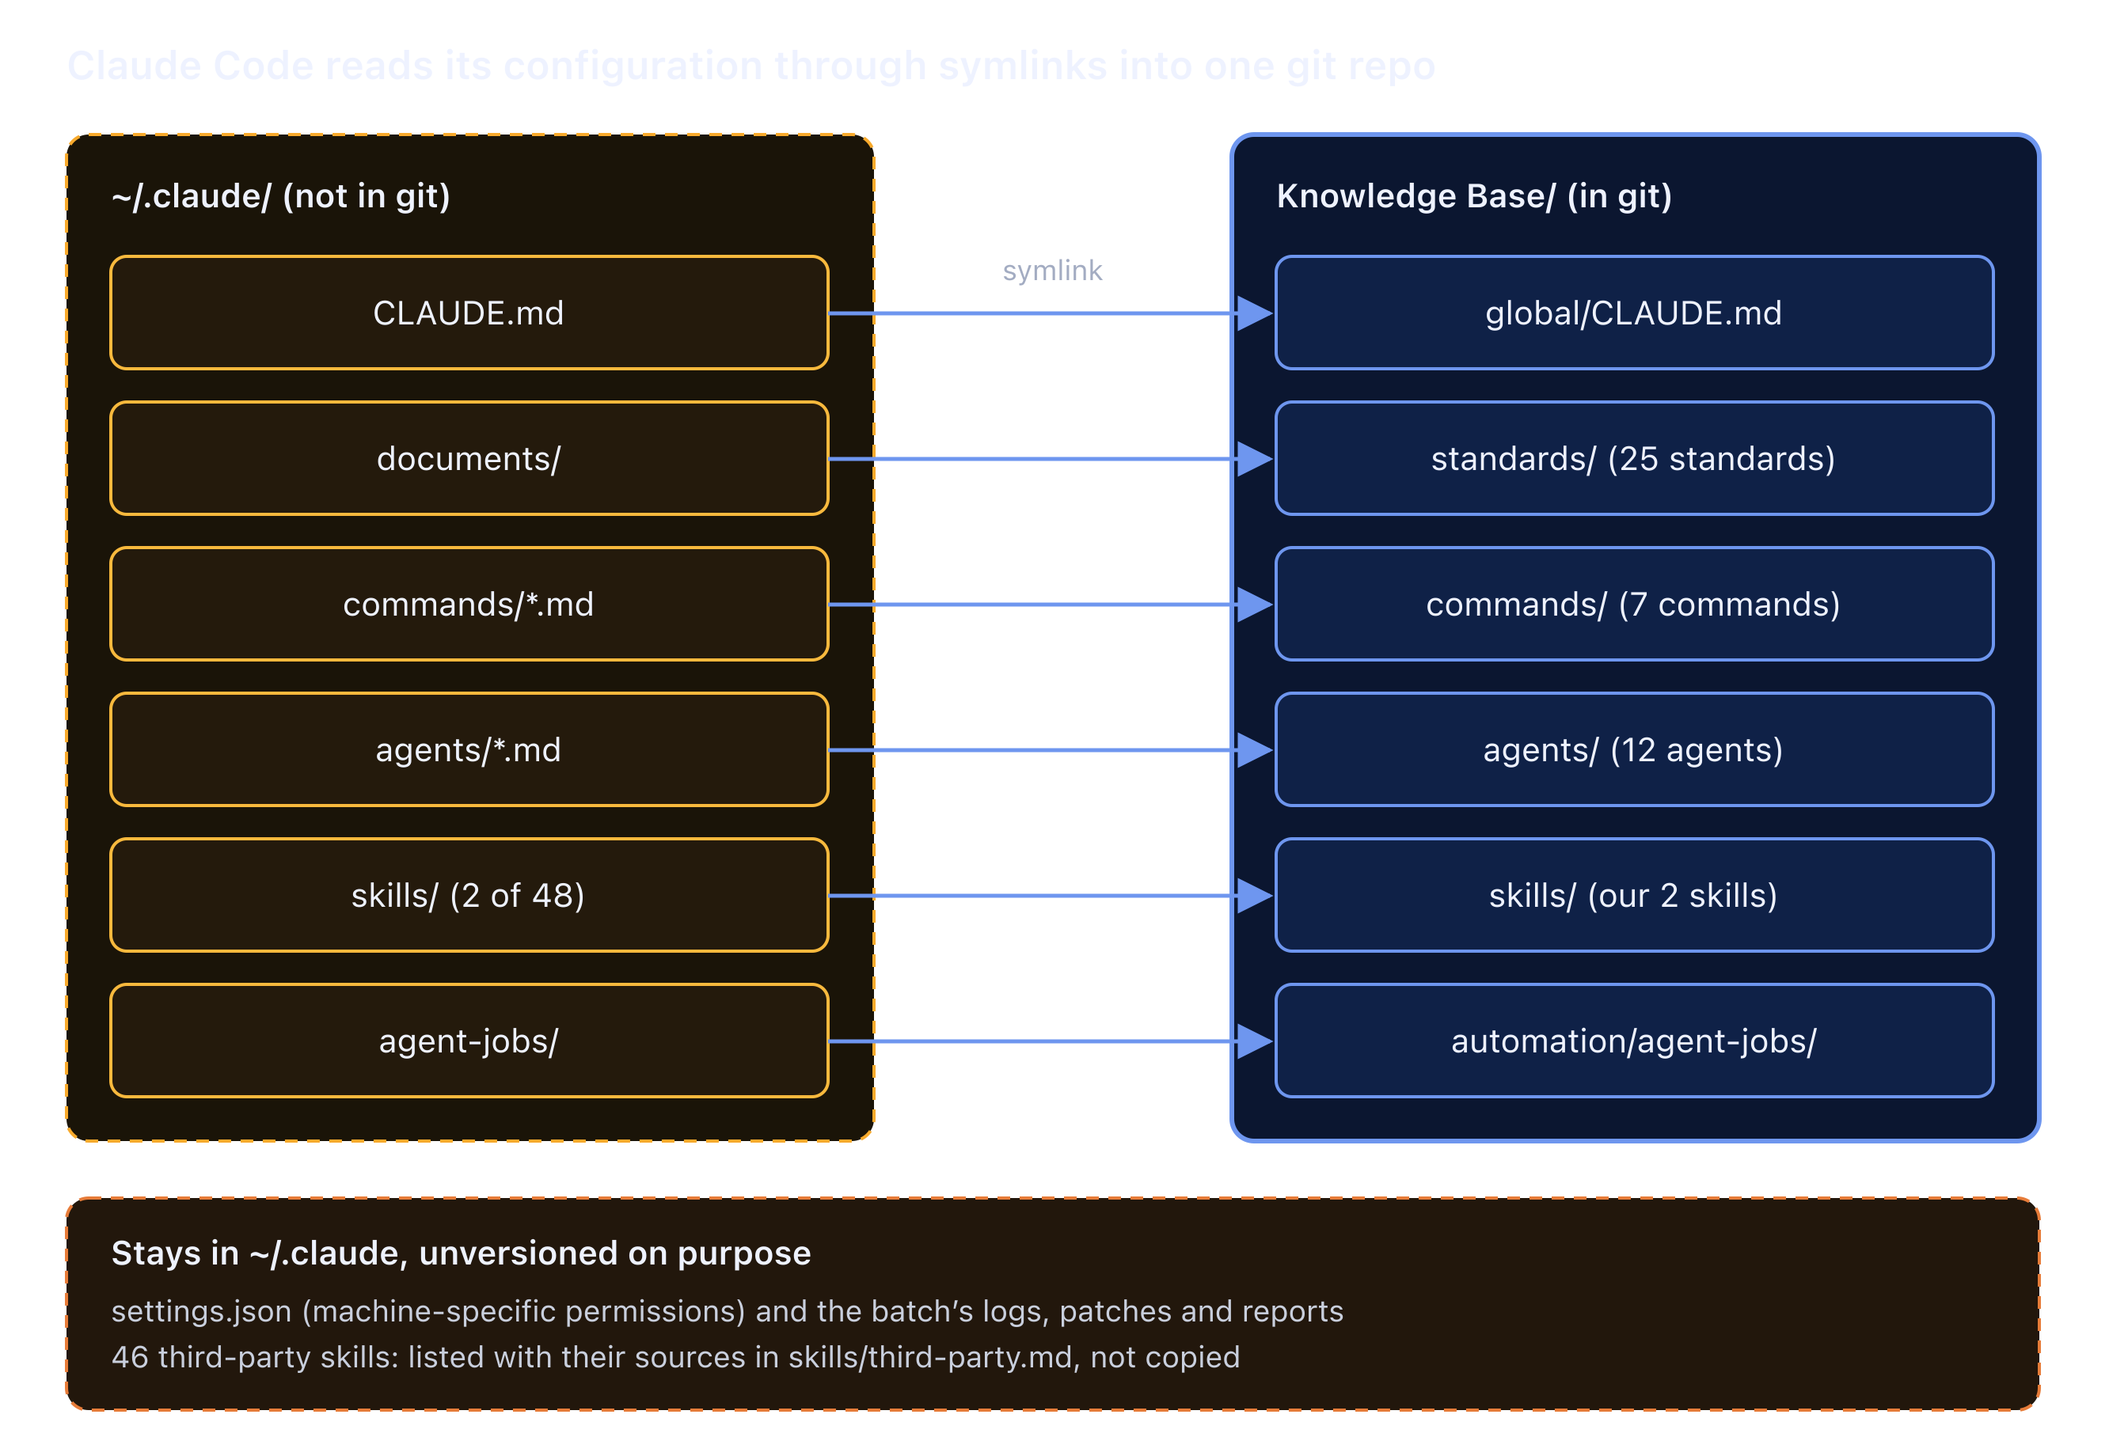
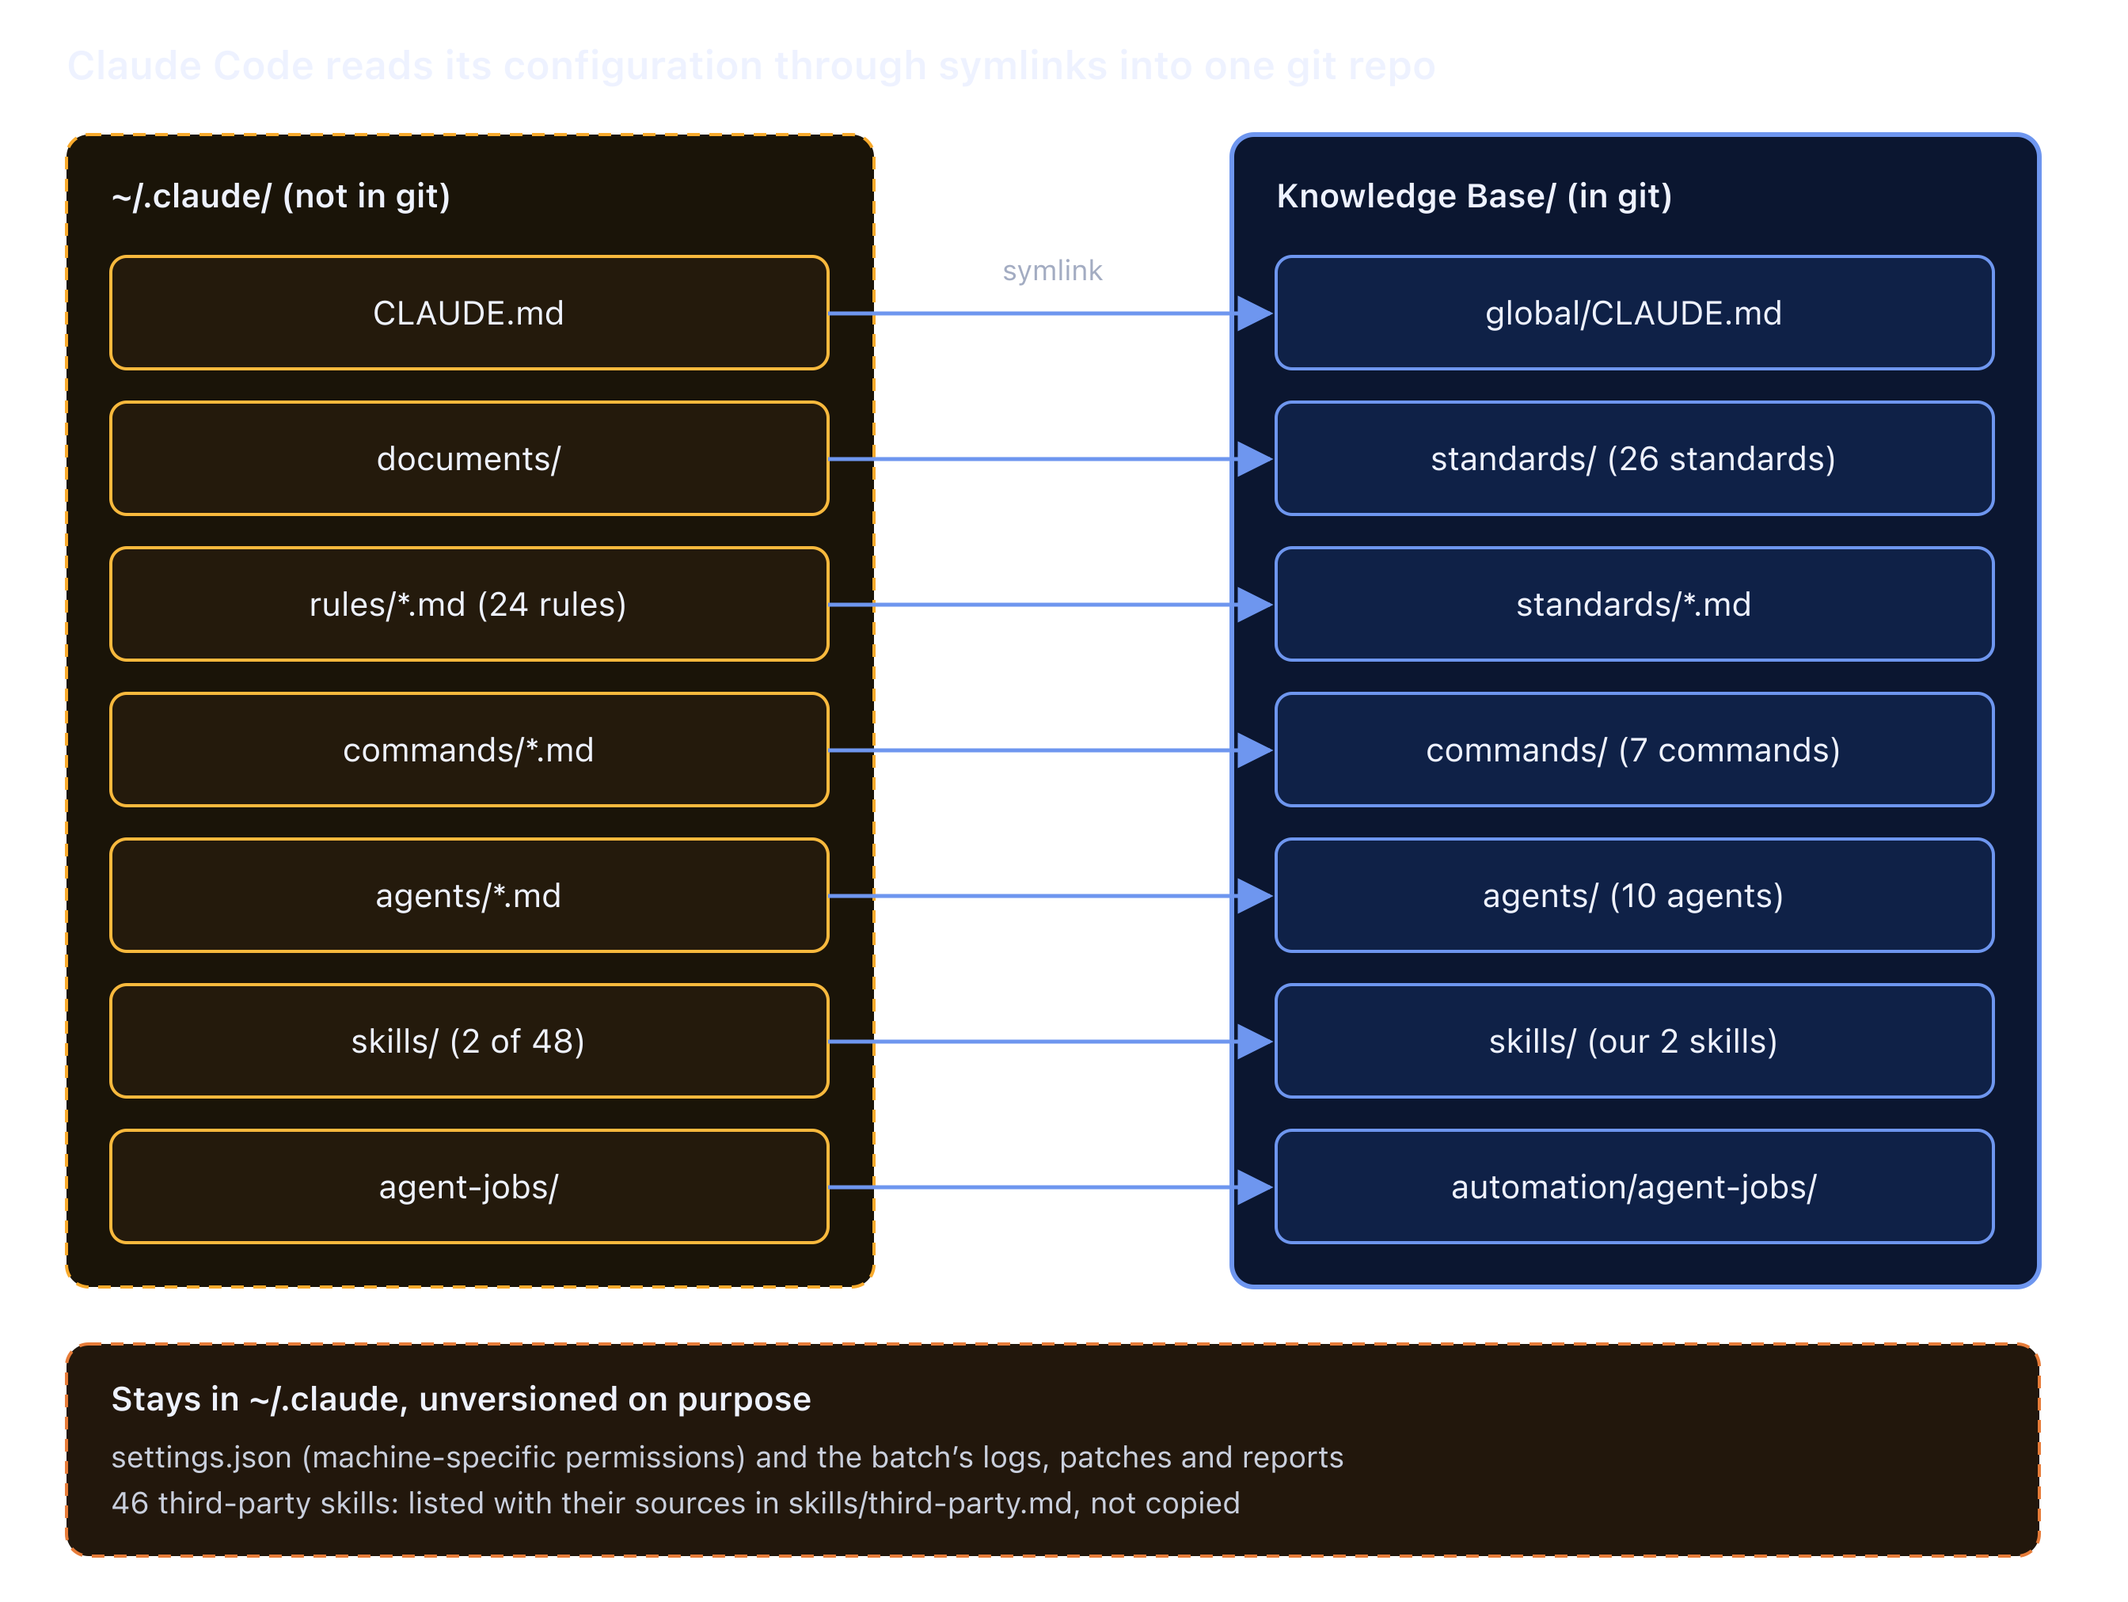
Marketing images: rebuild

Changed region(s): [[0.0312, 0.062, 0.9688, 0.9913]]

diff --git a/src/blog/how-we-set-up-our-ai-agents.md b/src/blog/how-we-set-up-our-ai-agents.md
@@ -21,11 +21,16 @@ We use Claude Code, and every session starts by loading one git repo: our Knowle
 
 Our rule of thumb is to keep each instruction file short and to point to further instructions rather than pasting them in. It’s the old Unix idea of small pieces that each do one job, applied to text.
 
-Claude Code gives you two ways to do that. A `CLAUDE.md` can import a single file with `@path` (such as `@docs/architecture.md`). And a `.claude/rules/` folder can hold rules that apply only to some files: a rule whose front matter says `paths: ["src/lib/**"]` is loaded only when the agent works there. Imports keep files manageable, but everything imported still loads at the start of every session; path-scoped rules load only when they’re needed.
+Claude Code gives you two ways to do that:
+
+1. A `CLAUDE.md` can **import** a single file with `@path` (such as `@docs/architecture.md`), and
+2. A `.claude/rules/` folder can hold **rules** that apply only to some files: a rule whose front matter says `paths: ["src/lib/**"]` is loaded only when the agent works there.
+
+Imports keep files manageable, but everything imported still loads at the start of every session; path-scoped rules load only when they’re needed. That difference is why our own standards are now rules rather than imports.
 
 Every session reads three layers of instructions, from the general to the specific. Each layer says only what the one above can’t.
 
-1. **Global instructions** (`~/.claude/CLAUDE.md`). They’re short: who the agent is (a senior Swift developer), how we work (plan first, pause after each stage, ask before committing), and where the Knowledge Base is. Then they import 25 standards with lines like `@~/.claude/documents/swiftui.md`: one each for Swift, SwiftUI, SwiftData, git, tests, linting, Readmes, websites, App Store Connect and more.
+1. **Global instructions** (`~/.claude/CLAUDE.md`). They’re short: who the agent is (a senior developer), how we work (plan first, pause after each stage, ask before committing), and where the Knowledge Base is. Alongside them sit 26 standards, one each for Swift, SwiftUI, SwiftData, git, tests, linting, Readmes, websites, App Store Connect and more. They’re rules, not imports: 11 that apply to everything (git, tests, documentation, planning) load in every session, while the Swift standard, say, loads only once the agent opens a Swift file. The last two, for setting up a new project, are read only when we start one.
 2. **The Knowledge Base**, which the global file tells the agent to use: read the project’s card at the start of a session, search the notes before solving a problem, and put any lesson that would help another project there. When the agent is working *on* the Knowledge Base itself, the repo’s own `CLAUDE.md` adds its rules (one fact per note, required front matter, run the checks before committing).
 3. **The project’s own `CLAUDE.md`**, in the repo’s root. It holds what’s true of that one project: its architecture, conventions, gotchas and history. It points into the Knowledge Base with `kb:` paths (such as `kb:knowledge/swiftdata/cloudkit-on-a-sandboxed-mac-needs-network-client.md`) rather than copying the lesson.
 
@@ -38,7 +43,7 @@ The layers work because each one knows its place:
 
 ## The Knowledge Base
 
-The Knowledge Base is a private git repo of plain Markdown: about 470 notes, written for us and for agents alike. We started it at the end of October 2026, and it has 128 commits so far. It changes most days.
+The Knowledge Base is a private git repo of plain Markdown: about 500 notes, written for us and for agents alike. We started it at the end of October 2026, and it has 175 commits so far. It changes most days.
 
 One test decides what goes in: **would it have saved time in a different repo?** If yes, it’s a note. If it only matters to one project, it stays in that project’s own docs.
 
@@ -60,30 +65,30 @@ The folders fall into six groups, by what they’re for.
 These four aren’t notes; they’re live configuration. Each one is linked into `~/.claude/`, so Claude Code reads them straight from the repo.
 
 - **`global/`** holds the global `CLAUDE.md` described above.
-- **`agents/`** holds our 12 custom sub-agents, each with a name and a speciality: Akira refactors without changing behaviour, Dara knows Core Data and SwiftData, Noor tests Metal rendering, Zuri writes DocC documentation, and so on. A note in `library/` lists who does what, and the names still free for new ones.
+- **`agents/`** holds our 10 custom sub-agents, each with a name and a speciality: Akira refactors without changing behaviour, Dara knows Core Data and SwiftData, Indigo runs and debugs iOS apps, Zuri writes DocC documentation, and so on. Two more were written for one app, so they now live in that project rather than in every session. A note in `library/` lists who does what.
 - **`commands/`** holds our seven slash commands: `/start-of-session`, `/end-of-session`, `/kb` (search the Knowledge Base), `/kb-update` (check a project against the current standards), `/initialise-new-project`, `/design-logo` and `/mac-app-review`.
 - **`skills/`** holds the skills we wrote (more on skills below).
 
 ### Standards, knowledge, library and templates: how to do things
 
-- **`standards/`**: the 25 rules every project follows, imported by the global instructions. They cover Swift, SwiftUI, SwiftData, Metal, git, tests, linting, documentation, Readmes, websites and App Store Connect.
-- **`knowledge/`**: about 370 how-tos and gotchas in 22 areas. Marketing is the largest (68), then Xcode (32), macOS (27), SwiftUI (24) and debugging (23). A typical title: “HealthKit compiles on the Mac, but there’s no Health data there”.
+- **`standards/`**: the 26 standards every project follows, 24 of them linked into Claude Code’s `rules/` folder. They cover Swift, SwiftUI, SwiftData, Metal, git, tests, linting, documentation, Readmes, websites and App Store Connect, and each one says whether it loads in every session, only for matching files, or only when a task asks for it.
+- **`knowledge/`**: about 400 how-tos and gotchas in 22 areas. Marketing is the largest (70), then Xcode (36), macOS (28), Swift (27) and SwiftUI (25). A typical title: “HealthKit compiles on the Mac, but there’s no Health data there”.
 - **`library/`**: reference material from elsewhere. There’s a Markdown copy of *97 Things Every Programmer Should Know*, profiles of 13 marketers (Steve Jobs, Rory Sutherland, David Ogilvy, Bill Bernbach and others) and the sub-agent roster.
 - **`templates/`**: starting points for a note, a decision, a project card and a project definition, plus the build script every Xcode project copies to stamp its version number from git.
 
 ### Projects and Xerodonia: what we have
 
-- **`projects/`**: a card for each main project (where it lives, how it relates to the others, key decisions, cautions and the notes that apply to it), plus a catalogue. A script builds the catalogue from every repo on the Mac, reading each Readme’s front matter and its git history, so it lists about 50 repos with their versions and never goes stale.
+- **`projects/`**: a card for each main project (where it lives, how it relates to the others, key decisions, cautions and the notes that apply to it), plus a catalogue. A script builds the catalogue from every repo on the Mac, reading each Readme’s front matter and its git history, so it lists more than 50 repos with their versions and never goes stale.
 - **`xerodonia/`**: the company. Its brand colours and logo, domains, DNS and email, devices, identifiers, online services and the names of accounts. Never the secrets: a note names a credential and says where it’s kept.
 
 ### Decisions and ideas: why things are the way they are
 
-- **`decisions/`**: 13 dated decisions that affect more than one project, each with its context and consequences. Two examples: version numbers come from plain git tags, and some repos stay local-only. When an agent wonders “why do we do it this way?”, the answer is here, so the question doesn’t come back every few weeks.
+- **`decisions/`**: 14 dated decisions that affect more than one project, each with its context and consequences. Two examples: version numbers come from plain git tags, and some repos stay local-only. When an agent wonders “why do we do it this way?”, the answer is here, so the question doesn’t come back every few weeks.
 - **`ideas/`**: ideas for new apps, and assessments like a marketing review of an app.
 
 ### Working together: how we like to work
 
-**`working-together/`** has 12 notes about us as collaborators. We plan first, and want the work paused after each stage. We check the work before it’s committed. We do the installing, uploading and deploying ourselves. Animation is part of the product, so don’t remove one without asking. And there’s how we like to be talked to, and the wording we want in anything a user will read. An agent that reads these makes fewer of the mistakes we’d otherwise correct by hand.
+**`working-together/`** has 13 notes about us as collaborators. We plan first, and want the work paused after each stage. We check the work before it’s committed. We do the installing, uploading and deploying ourselves. Animation is part of the product, so don’t remove one without asking. And there’s how we like to be talked to, and the wording we want in anything a user will read. An agent that reads these makes fewer of the mistakes we’d otherwise correct by hand.
 
 ### Automation: the Sunday batch
 
@@ -118,7 +123,7 @@ The third-party skills also check our code against outside opinions. Our standar
 
 ## Beyond code
 
-The biggest single area of the Knowledge Base isn’t Swift or Xcode. It’s marketing, with 68 notes.
+The biggest single area of the Knowledge Base isn’t Swift or Xcode. It’s marketing, with 70 notes.
 
 Xerodonia is one developer, so the same setup has to cover selling the apps as well as building them. The non-code side has four parts:
 
@@ -150,11 +155,11 @@ The split matters more than any one document. Status says where we are, the Plan
 
 Claude Code reads its configuration from `~/.claude/`, which isn’t under version control. Ours is now mostly symlinks into the Knowledge Base, so every instruction an agent follows has a history.
 
-{% themedImage "images/blog/how-we-set-up-our-ai-agents/claude-folder-symlinks.png", "images/blog/how-we-set-up-our-ai-agents/claude-folder-symlinks-dark.png", "Six folders and files in ~/.claude/ are symlinks to matching folders in the Knowledge Base git repo: CLAUDE.md to global/CLAUDE.md, documents/ to standards/, commands/ to commands/, agents/ to agents/, two of the 48 skills to skills/, and agent-jobs/ to automation/agent-jobs/. Below, what stays unversioned on purpose: settings.json, the batch’s output, and 46 third-party skills, listed in skills/third-party.md rather than copied.", "", "post-image" %}
+{% themedImage "images/blog/how-we-set-up-our-ai-agents/claude-folder-symlinks.png", "images/blog/how-we-set-up-our-ai-agents/claude-folder-symlinks-dark.png", "Seven folders and files in ~/.claude/ are symlinks into the Knowledge Base git repo: CLAUDE.md to global/CLAUDE.md, documents/ to standards/, each rule in rules/ to its standard, commands/ to commands/, agents/ to the 10 agents, two of the 48 skills to skills/, and agent-jobs/ to automation/agent-jobs/. Below, what stays unversioned on purpose: settings.json, the batch’s output, and 46 third-party skills, listed in skills/third-party.md rather than copied.", "", "post-image" %}
 
 Each entry on the left is a symlink, so editing the file in the repo changes what every new session loads.
 
-It started with the standards. They had no history, and over time they’d drifted into contradicting each other. At the end of October we moved them into the Knowledge Base and made `~/.claude/documents` a symlink to them, after a test showed that `CLAUDE.md` imports follow a symlinked folder. The global `CLAUDE.md` and the commands followed in November, then the agents and our skills.
+It started with the standards. They had no history, and over time they’d drifted into contradicting each other. At the end of October we moved them into the Knowledge Base and made `~/.claude/documents` a symlink to them, after a test showed that `CLAUDE.md` imports follow a symlinked folder. The global `CLAUDE.md` and the commands followed in November, then the agents and our skills. In November the standards changed again: all but the two for new projects are now linked into `~/.claude/rules/`, so the ones that apply only to Swift, Metal or websites stay out of a session until it needs them. The `documents` link stays, so an agent can still read any standard by name.
 
 Some things stay out on purpose:
 
@@ -175,7 +180,7 @@ Costs aren’t only money. Ours come in five kinds:
 
 - **Time:** about a day to set it up. The first commit was on 30 October, and the Knowledge Base reached version 1.0 the next day. That day went quickly because the material already existed: it gathered up the lessons we’d been writing into project `CLAUDE.md` files since we started using Claude.
 - **Money:** we pay for a year of Claude’s US$20-a-month plan: AUD$341 for the year, about AUD$28 a month. At pay-as-you-go rates, one recent month of our use would have cost US$856 (about AUD$1,220), and the Knowledge Base was built in that month. That’s one developer’s heavy month, not a team’s budget: a team should budget from its own usage.
-- **Context:** the global rules and the standards come to about 57 KB, roughly 14,000 tokens by our estimate, loaded into every session before any work starts.
+- **Context:** the global rules and the standards that apply to everything come to about 33 KB, roughly 8,300 tokens by our estimate, loaded into every session before any work starts. Each language or platform standard adds a few KB more, but only once the agent opens a matching file. Until our November update, all of them loaded every time: about 57 KB.
 - **Ongoing effort:** the Sunday batch saves nothing if nobody reads its patches, and the morning after its first run went on checking seven of them, one at a time. Notes need re-checking too; the script flags any that nobody has verified in 180 days.
 - **Opportunity:** the day spent building it was a day not spent on the apps.
 
@@ -204,3 +209,5 @@ Start small: next time you catch yourself explaining something to an agent for t
 Your setup will look different from ours. Your mileage may vary. But **write it down once, and keep it in git** works for everyone.
 
 *This post was drafted with Claude Code, from our own notes and a fact sheet, and then edited by us. Our stories use Claude Code because it’s what we actually use; the ideas should apply to any agent that reads instruction files.*
+
+*Updated 19 Nov 2026: our standards now load as path-scoped rules instead of imports, which cut what every session loads at the start from about 57 KB to 33 KB, and two app-specific agents moved into their project. The counts are as of that day.*
